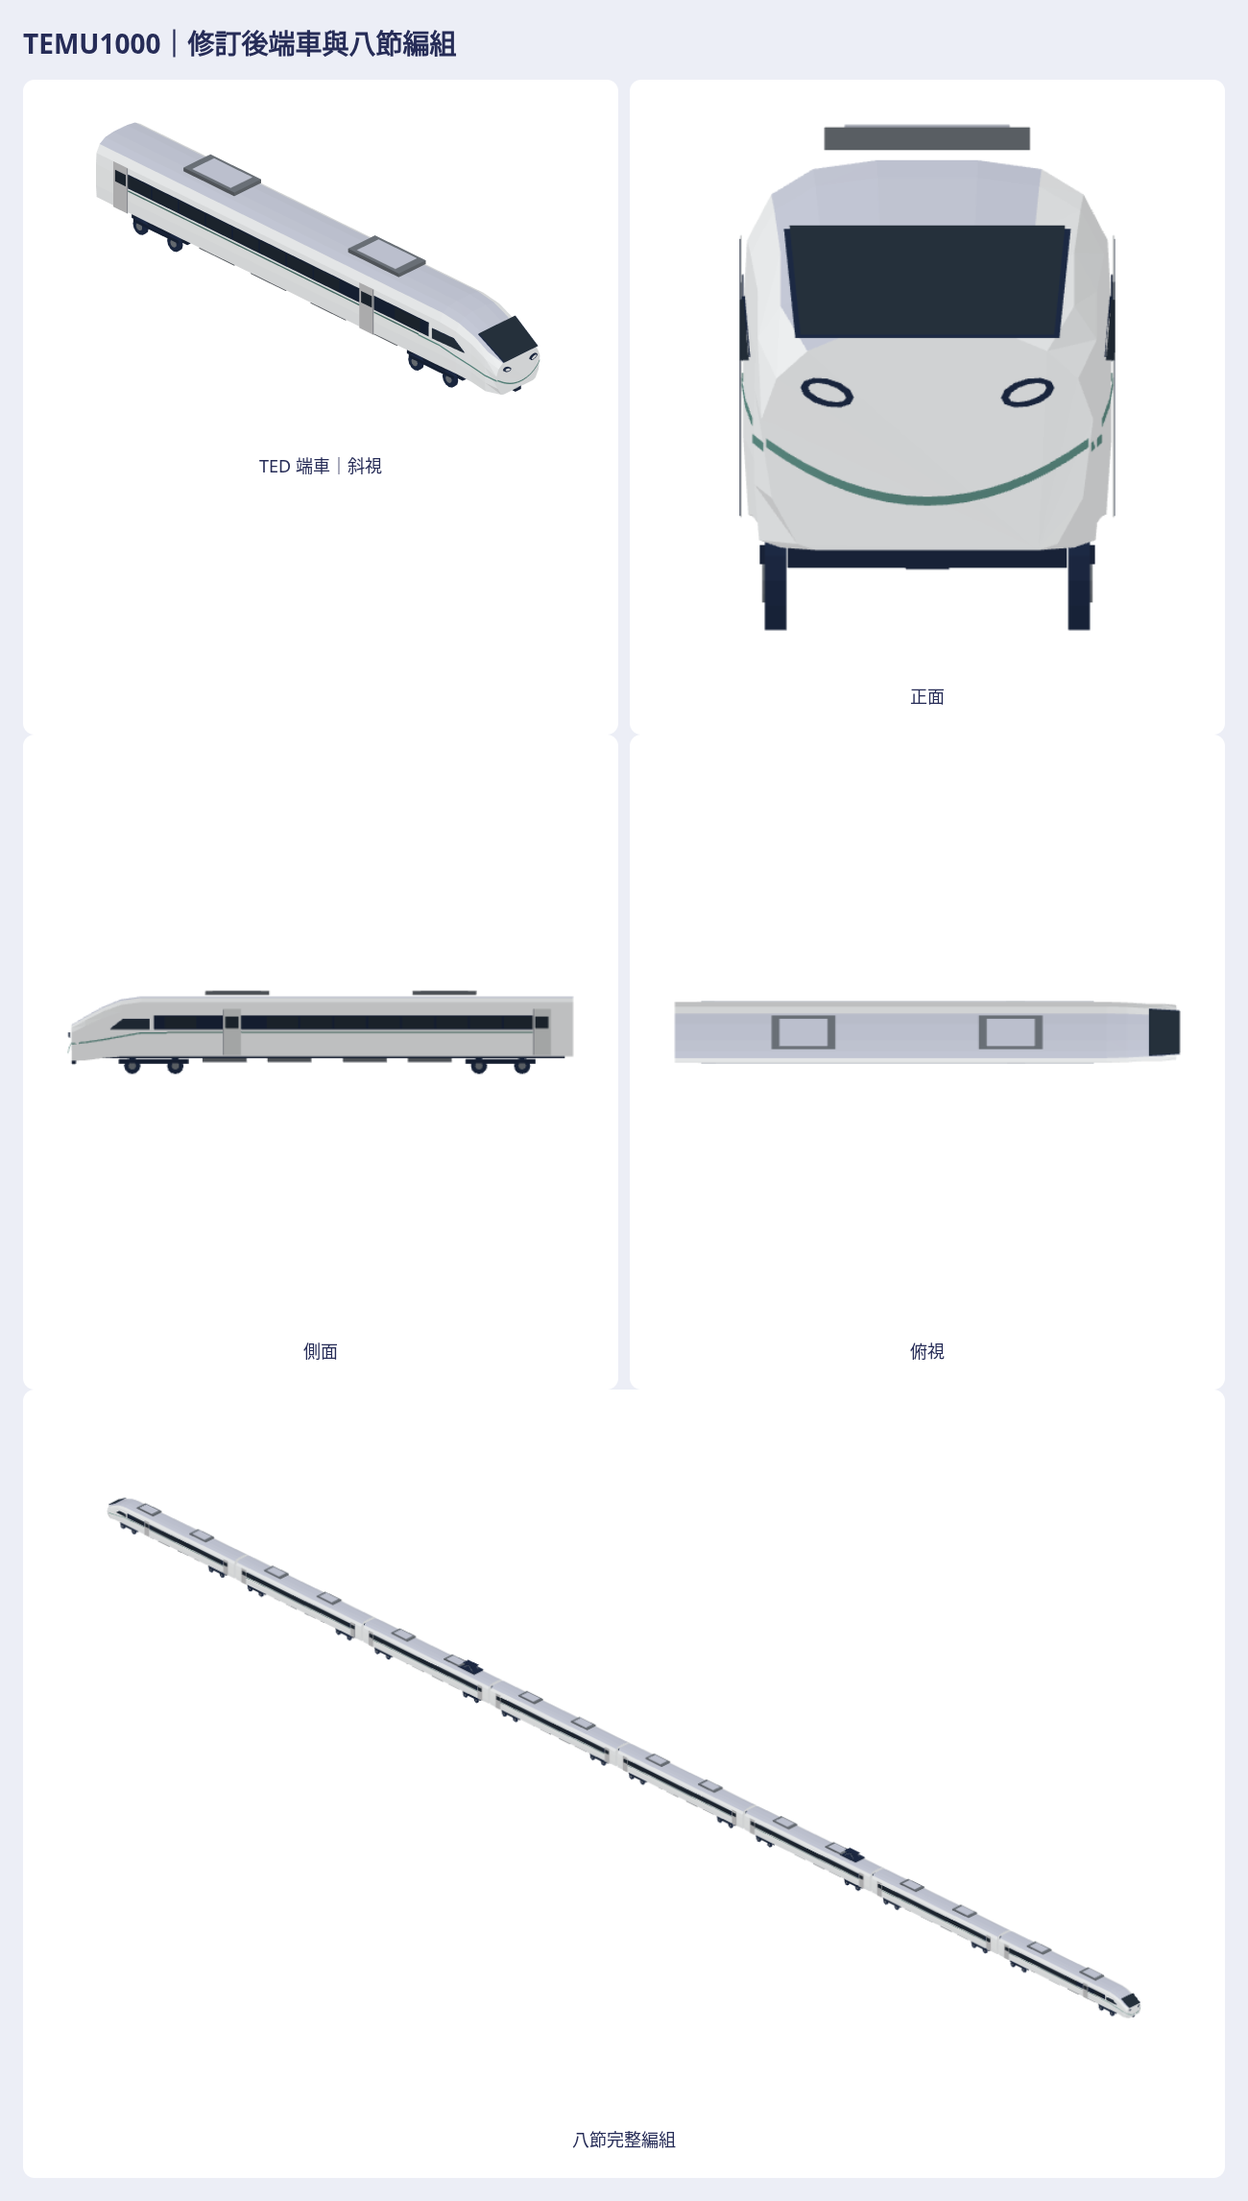
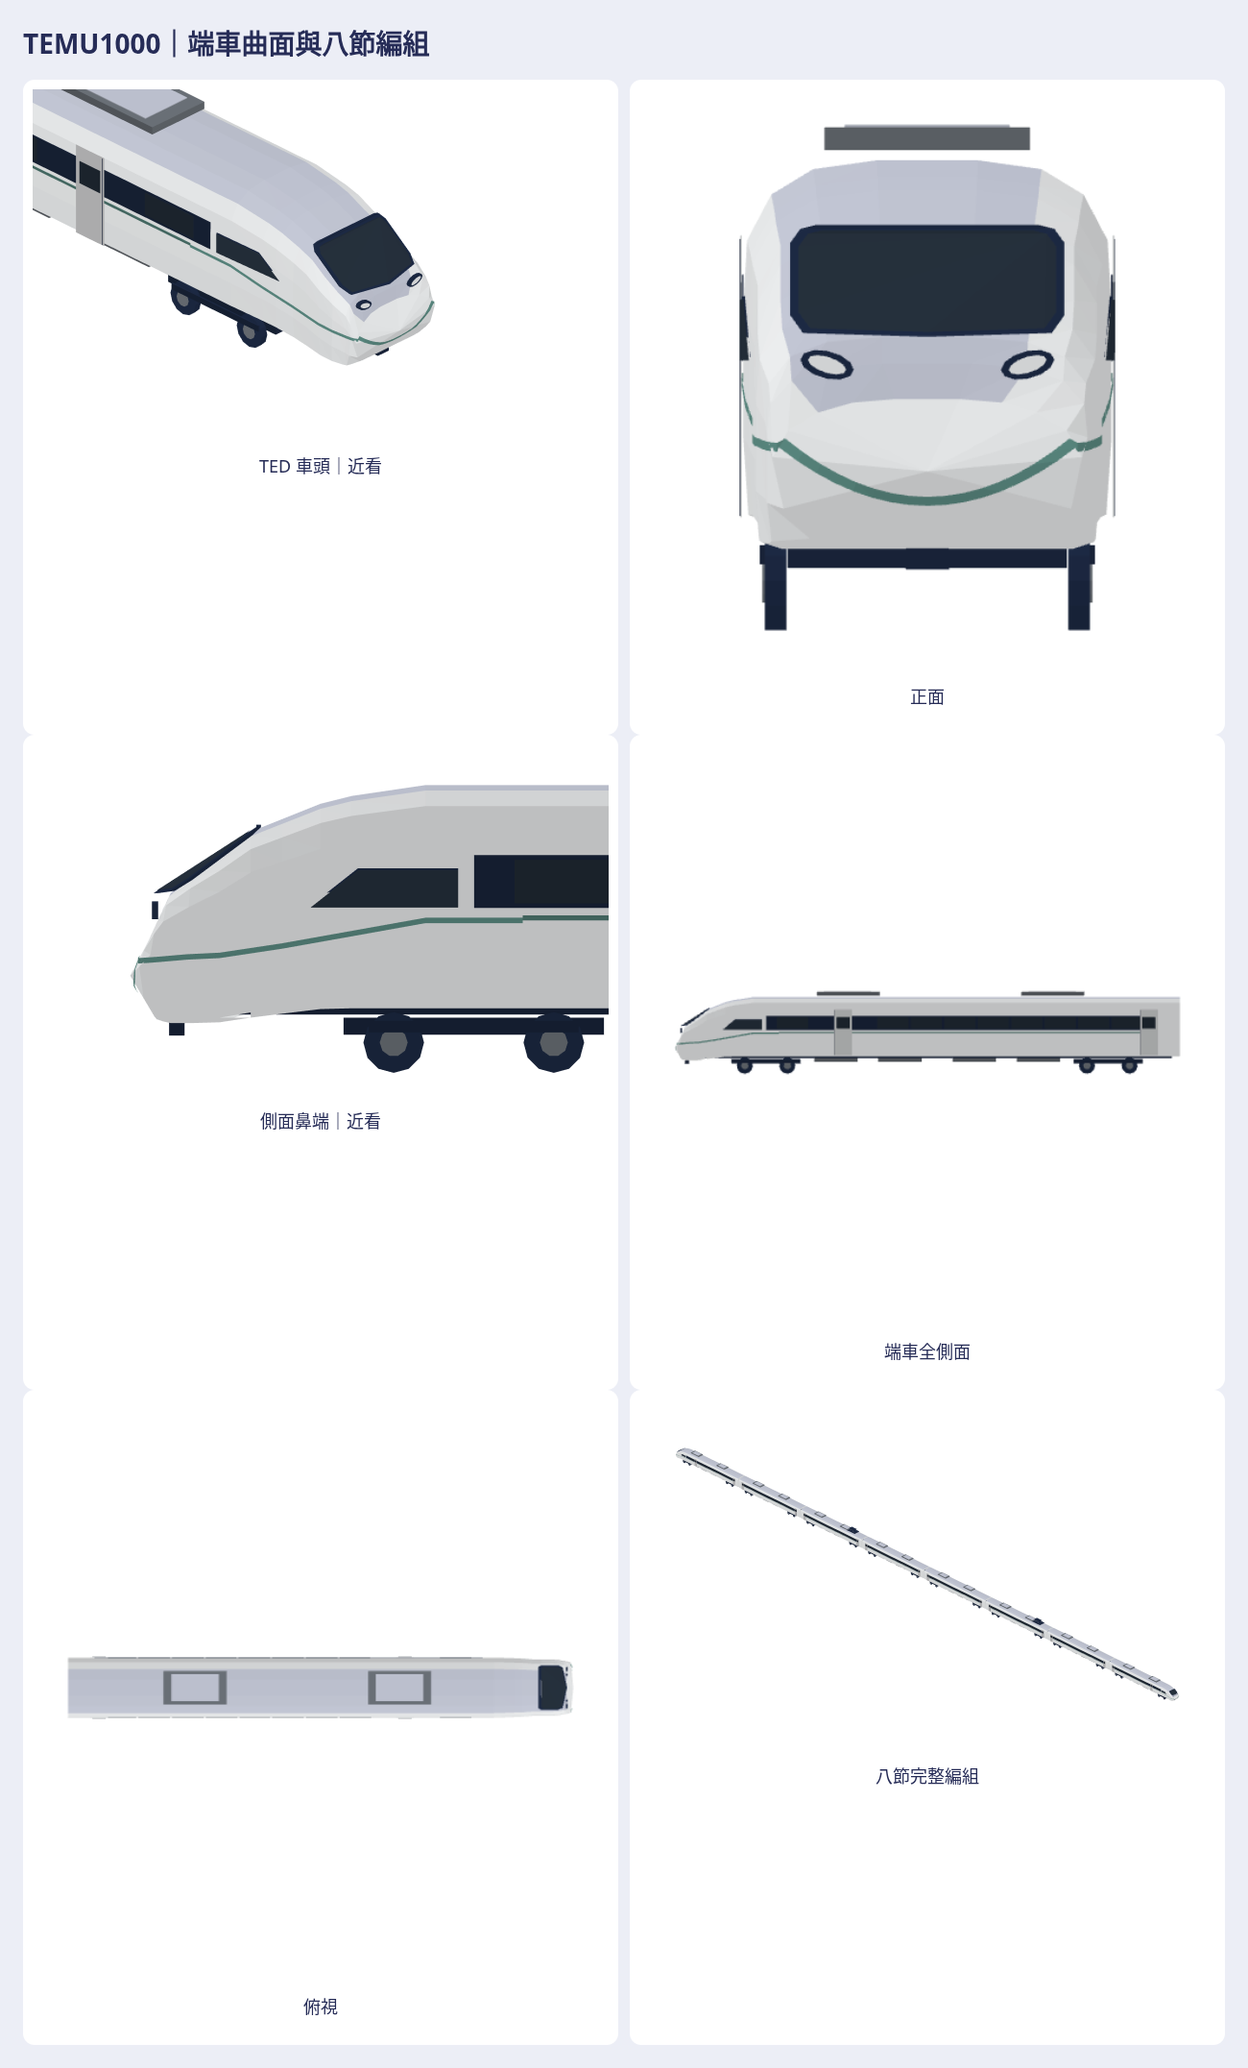
Round TEMU1000 cab nose against side reference
Agent: Codex

diff --git a/Sources/GamePresentation/Map3DTEMU1000.swift b/Sources/GamePresentation/Map3DTEMU1000.swift
@@ -47,19 +47,30 @@ extension StationKitBuilder {
                 let t = (h - 0.83) / 2.87
                 let shoulder = max(0, 1 - (side / 1.45) * (side / 1.45))
                 let oval = 1 - noseRound * (1 - sinf(Float.pi * t))
-                return Map3DPoint(x + bulge * 4 * t * (1-t) * shoulder, bottom + t * (top-bottom), side * width * oval)
+                let forward = bulge * 4 * t * (1-t) * (0.55 + 0.45 * shoulder)
+                return Map3DPoint(x + forward, bottom + t * (top-bottom), side * width * oval)
             }
         }
         var rings = [ring(-11.75),ring(11.75)]
         if nose > 0 {
             rings = [ring(-11.75),ring(8.9),ring(9.85,width:0.98,top:3.56),
-                     ring(10.75,width:0.94,top:3.20,bottom:0.76),
-                     ring(11.55,width:0.94,top:2.75,bottom:0.65),
-                     ring(12.20,width:0.91,top:2.36,bottom:0.63,bulge:0.22,noseRound:0.22)]
+                     ring(10.25,width:0.97,top:3.46,bottom:0.82),
+                     ring(10.75,width:0.94,top:3.26,bottom:0.76),
+                     ring(11.15,width:0.94,top:3.10,bottom:0.71),
+                     ring(11.55,width:0.94,top:2.80,bottom:0.65),
+                     ring(11.90,width:0.93,top:2.55,bottom:0.64,bulge:0.12),
+                     ring(12.18,width:0.88,top:2.31,bottom:0.64,bulge:0.25),
+                     ring(12.27,width:0.87,top:2.10,bottom:0.66,bulge:0.32),
+                     ring(12.36,width:0.85,top:1.82,bottom:0.69,bulge:0.42,noseRound:0.25)]
         } else if nose < 0 {
-            rings = [ring(-12.20,width:0.91,top:2.36,bottom:0.63,bulge:-0.22,noseRound:0.22),
-                     ring(-11.55,width:0.94,top:2.75,bottom:0.65),
-                     ring(-10.75,width:0.94,top:3.20,bottom:0.76),
+            rings = [ring(-12.36,width:0.85,top:1.82,bottom:0.69,bulge:-0.42,noseRound:0.25),
+                     ring(-12.27,width:0.87,top:2.10,bottom:0.66,bulge:-0.32),
+                     ring(-12.18,width:0.88,top:2.31,bottom:0.64,bulge:-0.25),
+                     ring(-11.90,width:0.93,top:2.55,bottom:0.64,bulge:-0.12),
+                     ring(-11.55,width:0.94,top:2.80,bottom:0.65),
+                     ring(-11.15,width:0.94,top:3.10,bottom:0.71),
+                     ring(-10.75,width:0.94,top:3.26,bottom:0.76),
+                     ring(-10.25,width:0.97,top:3.46,bottom:0.82),
                      ring(-9.85,width:0.98,top:3.56),ring(-8.9),ring(11.75)]
         }
         for k in 0..<(rings.count-1) {
@@ -74,8 +85,18 @@ extension StationKitBuilder {
                 face([rings[k][i],rings[k+1][j],rings[k+1][i]],inside:centre,color:c)
             }
         }
-        face(rings[0],inside:centre,color:white)
-        face(rings[rings.count-1],inside:centre,color:white)
+        let capCentre = Map3DPoint(nose*12.70,1.25,0)
+        if nose == 0 {
+            face(rings[0],inside:centre,color:white)
+            face(rings[rings.count-1],inside:centre,color:white)
+        } else {
+            let rear = nose > 0 ? rings[0] : rings[rings.count-1]
+            let front = nose > 0 ? rings[rings.count-1] : rings[0]
+            face(rear,inside:centre,color:white)
+            for i in front.indices {
+                face([capCentre,front[i],front[(i+1)%front.count]],inside:centre,color:white)
+            }
+        }
         // Lower frame, two bogies and eight visible wheel discs; tyre bottoms z=0.
         box(0,0.75,0,22.7,2.20,0.19,ink)
         for bogie: Float in [-8.28,8.28] {
@@ -118,7 +139,10 @@ extension StationKitBuilder {
             // stripe. The surface positions come from the actual end rings.
             let stations: [(Float,Float,Float)] = [(7.65,1.45,1.96),(8.90,1.45,1.96),
                                                     (9.85,1.421,1.79),(10.75,1.363,1.63),
-                                                    (11.55,1.363,1.51),(12.20,1.277,1.44)]
+                                                    (11.55,1.363,1.51),(11.97,1.35,1.49),
+                                                    (12.32,1.28,1.46),(12.45,1.25,1.45),
+                                                    (12.53,1.22,1.445),
+                                                    (12.60,1.17,1.44)]
             for side: Float in [-1,1] {
                 for i in 0..<(stations.count-1) {
                     let a = stations[i], b = stations[i+1]
@@ -127,20 +151,35 @@ extension StationKitBuilder {
                           Map3DPoint(nose*b.0,b.2+0.035,z1),Map3DPoint(nose*b.0,b.2-0.035,z1)],inside:centre,color:green)
                 }
             }
-            // The end ring bulges in X at mid-height; the stripe follows it
-            // across the frontal nose instead of cutting a flat chord.
-            for i in 0..<16 {
-                func point(_ z: Float,_ y: Float) -> Map3DPoint {
-                    let t = (y-0.63)/(2.36-0.63)
-                    let oval = 1 - 0.22*(1-sinf(Float.pi*t))
-                    let side = z/(0.91*oval)
-                    let shoulder = max(0,1-(side/1.45)*(side/1.45))
-                    return Map3DPoint(nose*(12.20+0.22*4*t*(1-t)*shoulder+0.012),y,z)
+            // The white nose is a triangular fan about a forward centre.
+            // Interpolate on those same real facets for the crossing stripe.
+            let cap = nose > 0 ? rings[rings.count-1] : rings[0]
+            func capSurface(_ y: Float,_ z: Float) -> Map3DPoint {
+                for i in cap.indices {
+                    let b = cap[i],c = cap[(i+1)%cap.count]
+                    let by = b.y-capCentre.y,bz = b.z-capCentre.z
+                    let cy = c.y-capCentre.y,cz = c.z-capCentre.z
+                    let det = by*cz-bz*cy
+                    if abs(det)<0.00001 { continue }
+                    let py = y-capCentre.y,pz = z-capCentre.z
+                    let u = (py*cz-pz*cy)/det,v = (by*pz-bz*py)/det
+                    if u >= -0.0001 && v >= -0.0001 && u+v <= 1.0001 {
+                        return Map3DPoint(capCentre.x*(1-u-v)+b.x*u+c.x*v+nose*0.035,y,z)
+                    }
                 }
-                let z0 = -1.27 + Float(i)*2.54/16, z1 = -1.27 + Float(i+1)*2.54/16
-                func arc(_ z: Float) -> Float { 0.98 + 0.46*(z/1.27)*(z/1.27) }
-                face([point(z0,arc(z0)),point(z0,arc(z0)+0.07),
-                      point(z1,arc(z1)+0.07),point(z1,arc(z1))],inside:centre,color:green)
+                preconditionFailure("front stripe left the TEMU1000 nose surface at \(y), \(z)")
+            }
+            for i in 0..<16 {
+                let z0 = -1.17 + Float(i)*2.34/16, z1 = -1.17 + Float(i+1)*2.34/16
+                func arc(_ z: Float) -> Float { 0.98 + 0.46*(z/1.17)*(z/1.17) }
+                func upperZ(_ z: Float) -> Float { z*1.12/1.17 }
+                face([capSurface(arc(z0),z0),capSurface(arc(z0)+0.07,upperZ(z0)),
+                      capSurface(arc(z1)+0.07,upperZ(z1)),capSurface(arc(z1),z1)],inside:centre,color:green)
+            }
+            for side: Float in [-1,1] {
+                let edge = side*1.184
+                face([Map3DPoint(nose*12.60,1.405,edge),Map3DPoint(nose*12.60,1.475,edge),
+                      capSurface(1.51,side*1.12),capSurface(1.44,side*1.17)],inside:centre,color:green)
             }
             // Cab side glass narrows into the lowered windshield rake.
             for side: Float in [-1,1] {
@@ -152,16 +191,27 @@ extension StationKitBuilder {
                 let cabPane = cab.map { Map3DPoint($0.x,$0.y-0.025,$0.z+side*0.012) }
                 face(cabPane,inside:centre,color:glass)
             }
-            // Broad windscreen across the cab shoulders, supported by the
-            // raked shell. The photo shows a large windshield and short,
-            // rounded white face below it.
-            let sx = nose*10.70
-            let panel = [Map3DPoint(sx+nose*0.20,3.16,-1.13),
-                         Map3DPoint(sx+nose*0.20,3.16,1.13),
-                         Map3DPoint(sx+nose*1.66,2.30,1.04),
-                         Map3DPoint(sx+nose*1.66,2.30,-1.04)]
-            face(panel,inside:centre,color:ink)
-            let pane = panel.map { Map3DPoint($0.x+nose*0.018,$0.y+0.027,$0.z*0.96) }
+            // The cab screen follows the rake and bends across the width.
+            // Chamfered corners and a short closed rim keep the glazing part
+            // of the nose instead of a flat panel hovering over the shell.
+            func screenPoint(_ y: Float, _ z: Float, offset: Float = 0) -> Map3DPoint {
+                let t = (3.20-y)/0.93
+                let transverse = 0.24 * max(0,1-(z/1.15)*(z/1.15))
+                return Map3DPoint(nose*(10.94+1.25*t+transverse+offset),y,z)
+            }
+            let outline: [(Float,Float)] = [(3.16,-1.00),(3.19,-0.88),(3.19,0.88),
+                                            (3.16,1.00),(3.05,1.08),(2.48,1.08),
+                                            (2.34,0.98),(2.31,0),(2.34,-0.98),
+                                            (2.48,-1.08),(3.05,-1.08)]
+            let frame = outline.map { screenPoint($0.0,$0.1,offset:0.025) }
+            let backing = outline.map { screenPoint($0.0,$0.1,offset:-0.035) }
+            face(frame,inside:centre,color:ink)
+            face(backing,inside:centre,color:ink)
+            for i in outline.indices {
+                let j = (i+1)%outline.count
+                face([frame[i],frame[j],backing[j],backing[i]],inside:centre,color:ink)
+            }
+            let pane = outline.map { y,z in screenPoint(2.74+(y-2.74)*0.91,z*0.94,offset:0.030) }
             face(pane,inside:centre,color:glass)
             // Oval lamp pods have a shallow closed backing sunk into the
             // white nose. Their lenses sit above the wraparound stripe.
@@ -169,19 +219,19 @@ extension StationKitBuilder {
                 func oval(_ x: Float, _ yr: Float, _ zr: Float) -> [Map3DPoint] {
                     (0..<12).map { i in
                         let a = 2 * Float.pi * Float(i) / 12
-                        return Map3DPoint(x, 1.87 + yr*sinf(a)
+                        return Map3DPoint(x, 2.09 + yr*sinf(a)
                                                + side*0.04*cosf(a), side*0.79 + zr*cosf(a))
                     }
                 }
-                let back = oval(nose*12.28,0.11,0.21)
-                let rim = oval(nose*12.36,0.11,0.21)
+                let back = oval(nose*12.34,0.11,0.21)
+                let rim = oval(nose*12.42,0.11,0.21)
                 face(back,inside:centre,color:ink)
                 face(rim,inside:centre,color:ink)
                 for i in 0..<12 {
                     let j = (i+1)%12
                     face([back[i],back[j],rim[j],rim[i]],inside:centre,color:ink)
                 }
-                face(oval(nose*12.37,0.065,0.15),inside:centre,color:Map3DPalette.tileWhite)
+                face(oval(nose*12.43,0.065,0.15),inside:centre,color:Map3DPalette.tileWhite)
             }
             box(nose*12.10,0.48,0,0.20,0.34,0.17,ink)
         } else {

diff --git a/Tests/GamePresentationTests/Map3DTEMU1000Tests.swift b/Tests/GamePresentationTests/Map3DTEMU1000Tests.swift
@@ -40,16 +40,29 @@ final class Map3DTEMU1000Tests: XCTestCase {
                              "front windscreen must extend down the cab")
         XCTAssertLessThan(screen.map(\.z).min() ?? 10, 2.4,
                           "the dark screen must reach the lowered nose")
+        if let top = screen.max(by: { $0.z < $1.z }),
+           let bottom = screen.min(by: { $0.z < $1.z }) {
+            let rake = (top.x-bottom.x)/(top.z-bottom.z)
+            let depth = screen.map { $0.x-rake*$0.z }
+            XCTAssertGreaterThan((depth.max() ?? 0)-(depth.min() ?? 0), 0.025,
+                                 "windscreen must bend across the cab, not form a flat billboard")
+        }
         let arc = head.vertices.filter { $0.color == Map3DTEMU1000.band && $0.x > 12.2 }
         let centreHeight = arc.filter { abs($0.y) < 0.2 }.map(\.z).min() ?? 10
         let sideHeight = arc.filter { abs($0.y) > 1.1 }.map(\.z).min() ?? 0
         XCTAssertLessThan(centreHeight + 0.3, sideHeight,
                           "front waist arc must dip below its side ends")
-        let front = head.vertices.filter { $0.x > 12.15 && $0.color == Map3DTEMU1000.shell }
+        let front = head.vertices.filter { $0.x > 12.35 && $0.color == Map3DTEMU1000.shell }
         let low = front.filter { $0.z < 0.95 }.map { abs($0.y) }.max() ?? 0
         let shoulder = front.filter { $0.z > 1.3 && $0.z < 2.2 }.map { abs($0.y) }.max() ?? 0
         XCTAssertGreaterThan(low, 0.7)
         XCTAssertLessThan(low, shoulder * 0.87, "lower nose must round inward")
+        let lowTip = front.filter { $0.z < 0.8 }.map(\.x).max() ?? 0
+        let curvedTip = front.filter { $0.z > 1.1 && $0.z < 1.5 }.map(\.x).max() ?? 0
+        XCTAssertGreaterThan(curvedTip-lowTip, 0.15,
+                             "side silhouette must end in a rounded nose, not a tall flat wall")
+        XCTAssertLessThan(front.filter { abs($0.y) < 0.5 }.map(\.z).max() ?? 10, 2.1,
+                          "the foremost cap must taper below the windshield")
     }
 
     func testMiddleHasNoCabGlassAtEnd() {

diff --git a/tools/temu1000/bundle.py b/tools/temu1000/bundle.py
@@ -19,7 +19,7 @@ record = {
     'recipe': 'Sources/GamePresentation/Map3DTEMU1000.swift',
     'recipe_sha256': sha(source / 'Sources/GamePresentation/Map3DTEMU1000.swift'),
     'rebuild': 'tools/temu1000/README.md',
-    'supplied_reference': 'five inline chat images; visually inspected; not stored as local files',
+    'supplied_reference': 'five initial inline images and later front/side detail crops; visually inspected; not stored as local files',
     'other_source': 'project Map3DPalette / Map3DTrainStyle.glass / project display scale',
     'private_reference_use': 'existing commuter cab used for style comparison; no mesh/image/texture copied',
 }

diff --git a/docs/art/temu1000-2026-10-25/README.md b/docs/art/temu1000-2026-10-25/README.md
@@ -41,3 +41,13 @@
 前版公開 producer `3f697206` 的真原生模型、GLB、來源與預覽另存私包 `history/3f697206/`。本次 `previews/before-after.png` 改以兩版**端車**在固定相機、固定公尺尺度比較，比整組遠景更能看見風擋與正面弧線。風擋上、下緣均下移；鼻端各斷面的頂點也下移以支承斜玻璃，並非單把黑色貼片移到車殼外。前臉腰線由水平改為中段下垂，車側直線腰帶仍緊鄰黑色窗帶，只在鼻端漸降銜接前弧；橢圓燈位及側駕駛窗隨風擋下移。輪組、車身中段、屋頂集電設備與八節編組維持。
 
 最新外觀判讀：**已符合**使用者指出的「黑色與弧線偏高」修正方向，側、正、俯、斜視已從本版原生模型重新檢視；**仍不符合**實車圓滑的鼻罩曲率和細部燈罩，車頭斷面及窗帶在近景仍呈遊戲尺度簡化，不能聲稱已達作者期望的相似度或已獲認可；**資料不足**另一側門窗與工程尺寸。技術測試另列，不替代外觀評估。
+
+## 依使用者補充正面與側面裁圖修正圓弧鼻端
+
+補充裁圖已直接目視，沒有本機原檔可列 SHA。先前端面從側面看仍太高、太直；本輪把鼻端最後一站降成短端面，向前鼓起中段，再用更多斷面將車頂的下降曲線接到圓鈍鼻尖。風擋改成有橫向曲率與薄實體邊框的曲面，端面用向前鼓起的三角面封閉；綠色弧線按同一端面實際三角片插值，而非在空中畫弦。模型更新後，重出端車側面近景、斜視近景、正面、俯視、白模／剪影與全編組；私包 `history/d793874b/` 留存真前版，`previews/before-after.png` 用兩份端車原生模型同相機與公尺尺度比較。
+
+| 判定 | 本輪觀察 |
+|---|---|
+| 已符合 | 側視最前端不再是從高處直落到裙板的平端面，風擋與側面下彎車頂相接；正面玻璃、燈與環鼻細線可見。四單元、輪組、屋頂設備及排列仍在。 |
+| 仍不符合 | 鼻尖、玻璃外緣與裙板近景仍有多邊形折面；無法把本輪遊戲模型說成已精確複製照片，也沒有作者對外觀的認可。 |
+| 資料不足 | 另一側門窗、真實車鼻工程曲面、節長與隱藏設備。裁圖只能支持外形比例，不能當工程尺寸。 |

diff --git a/docs/HANDOFF.md b/docs/HANDOFF.md
@@ -1576,3 +1576,4 @@ PR #755–#784 那一輪（72.1 那一天）的審查：修了 6 項（路線卡
 
 TEMU1000 原生外形（Codex，issue #1228，draft #1230／私庫 #78）：使用者指出舊稿「很不像」。真正前版 `3a9a9ef9` 留私庫 history，本輪按五圖修寬鼻、正面大風擋、連續窗帶、TED 門位及繞鼻綠線；外觀缺口、重建、同尺度前後及驗證見 `docs/art/temu1000-2026-10-25/README.md`。`taroko` 3D 營運映射接新單元；GameCore、存檔、fixtures 不變。真機 Metal／效能／動畫未驗。
 後續使用者指出「黑色跟圓弧要往下移」：Codex 在同分支下移端車風擋與鼻端斷面，讓正面腰線下垂且側線於鼻端漸降；真前版 `3f697206` 另留私庫 history，本版前後對照改用端車相機。外觀仍待作者評價；真機 Metal／效能／動畫仍未驗。
+再補的正面／側面裁圖顯示端面還是太平：Codex 在同分支縮短鼻端直面、加密並鼓起圓弧端面，玻璃與腰線跟著真曲面；真前版 `d793874b` 存私庫 history，另出車頭側／斜近景與同尺度對照。最新外觀與重建見上述 README；真機限制不變。
